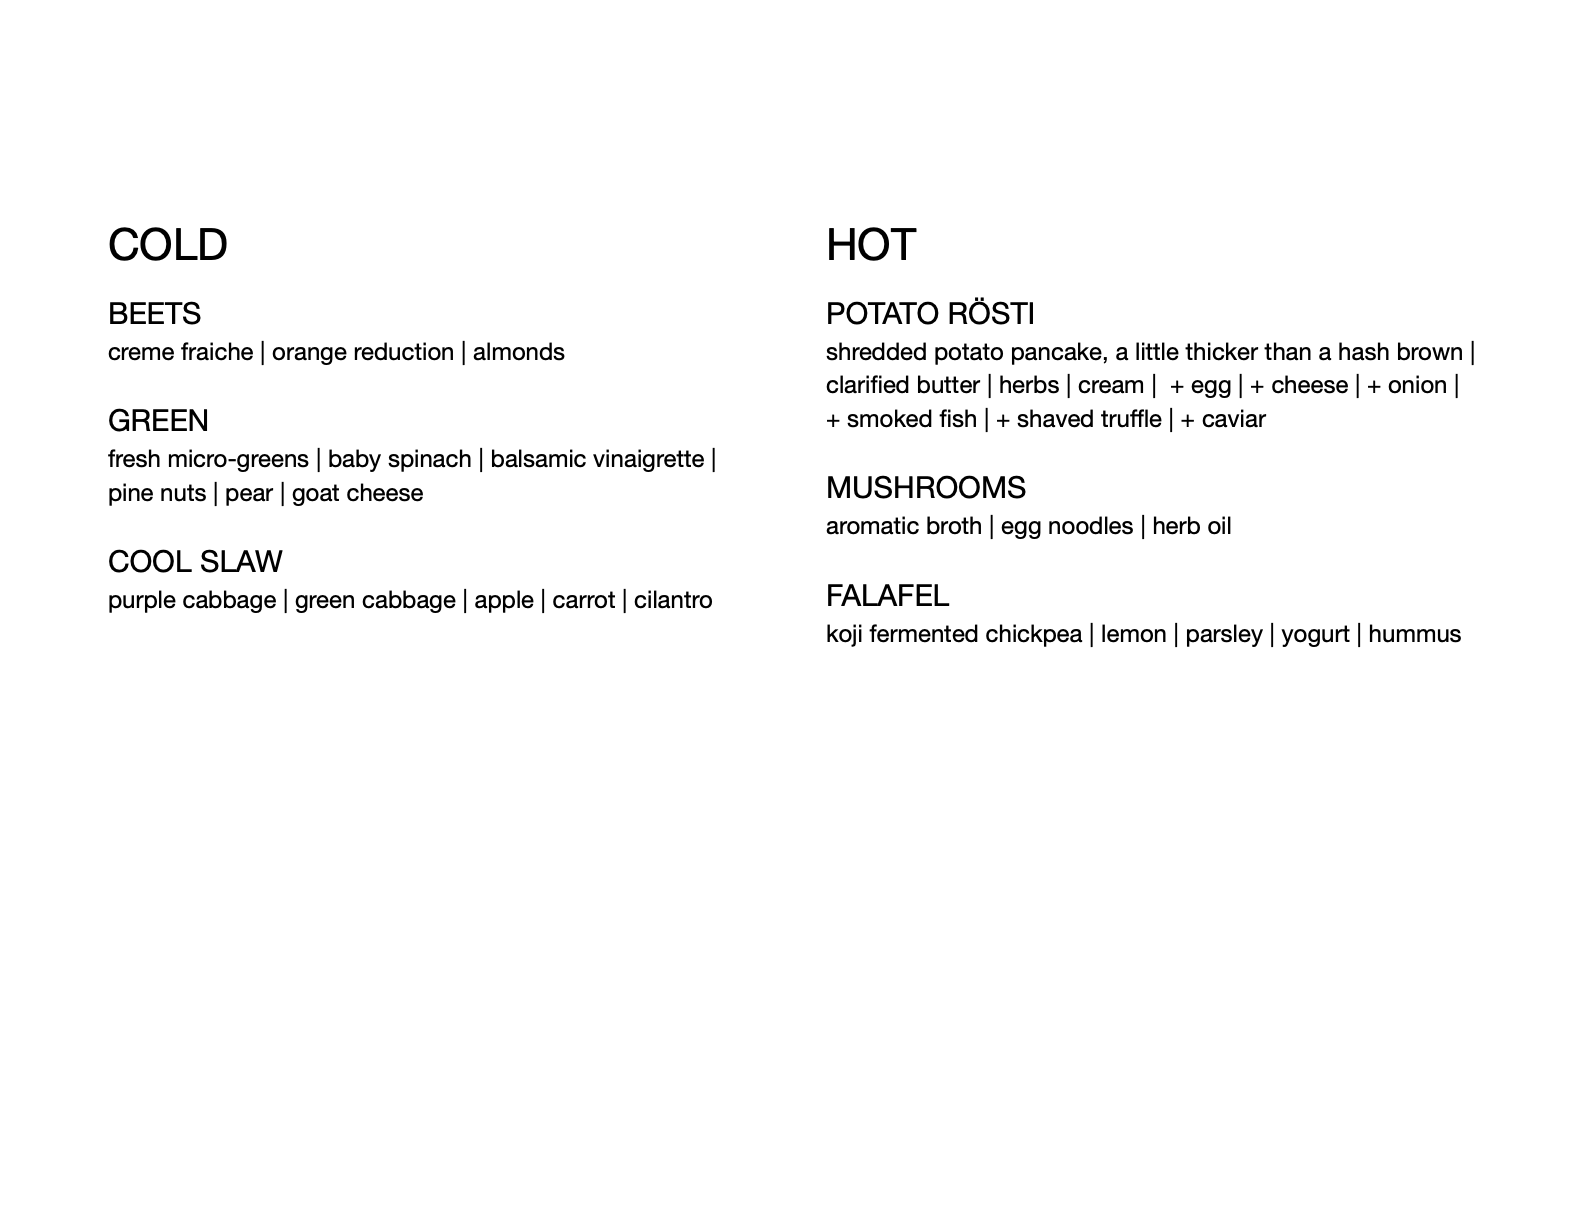
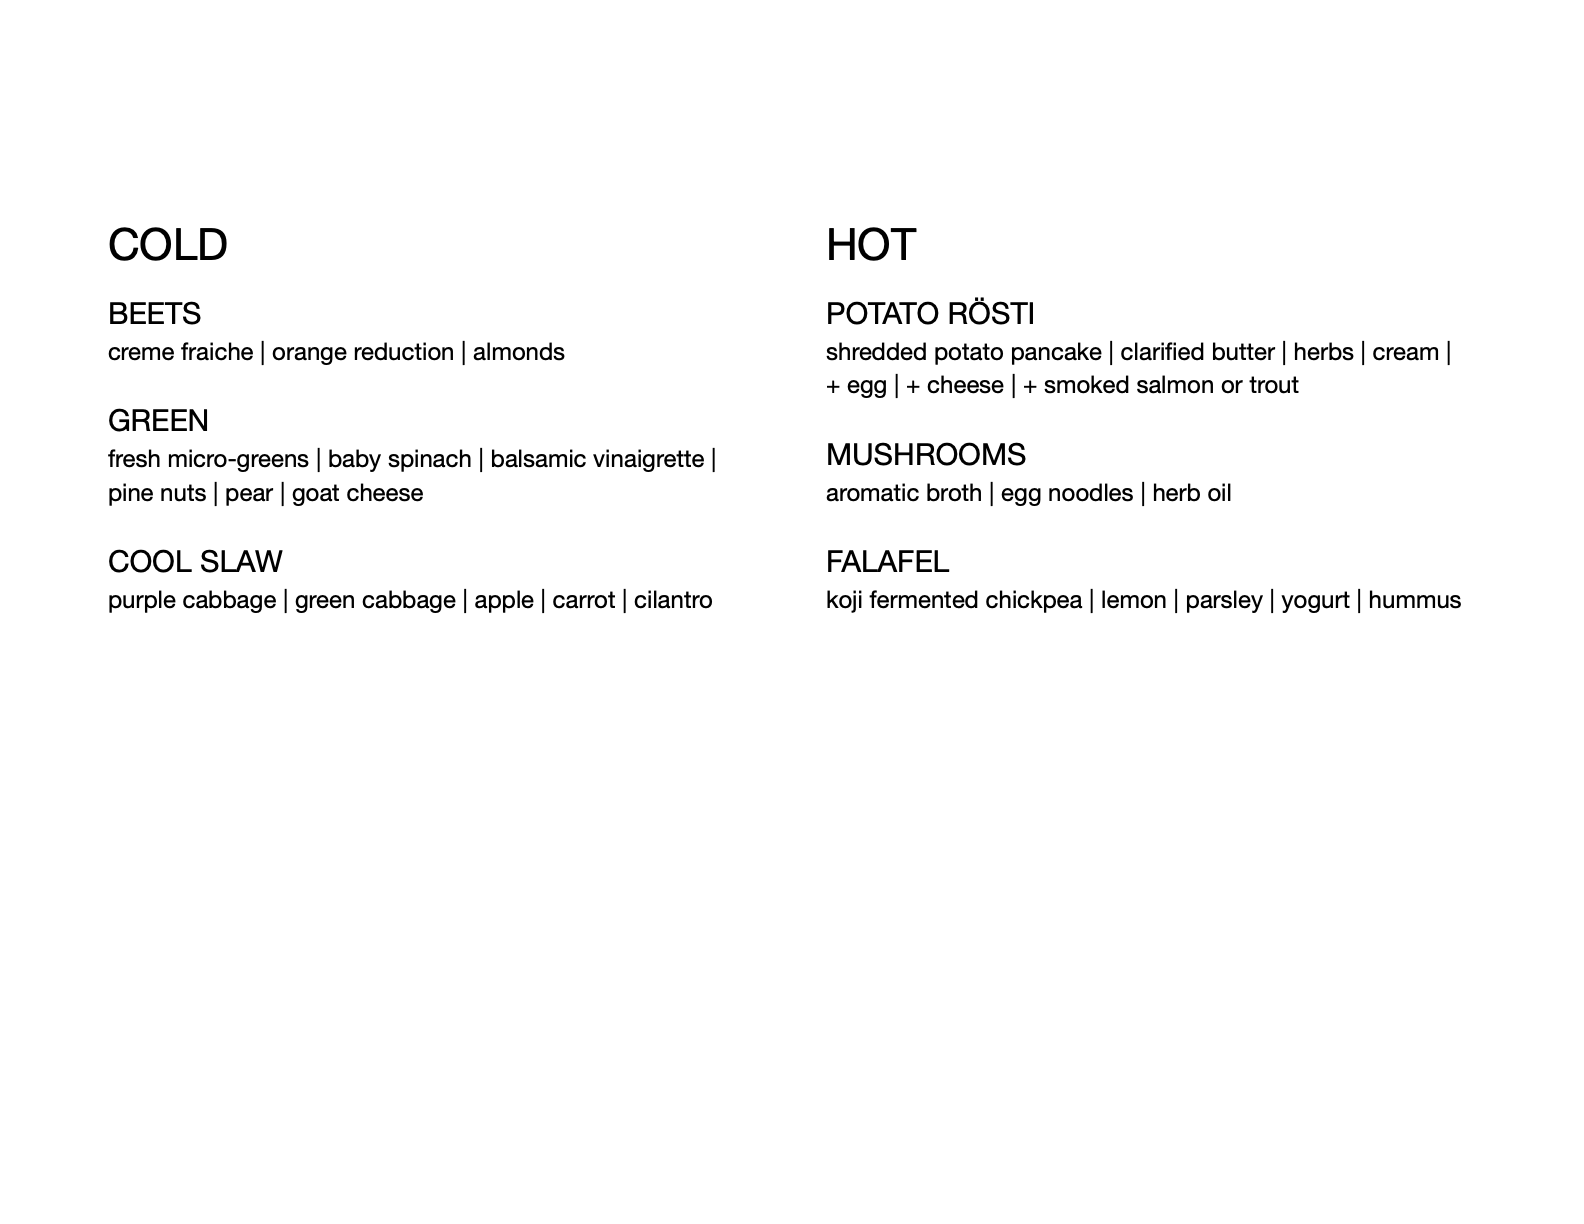
Update menu

Changed region(s): [[0.5259, 0.2794, 0.928, 0.5278]]

diff --git a/dist/catering/menu/index.html b/dist/catering/menu/index.html
@@ -2,6 +2,6 @@
 :root{--accent: #0066cc;--accent-dark: #000d8a;--black: 15, 18, 25;--gray: 96, 115, 159;--gray-light: 229, 233, 240;--gray-dark: 34, 41, 57;--gray-gradient: rgba(var(--gray-light), 50%), #fff;--box-shadow: 0 2px 6px rgba(var(--gray), 25%), 0 8px 24px rgba(var(--gray), 33%), 0 16px 32px rgba(var(--gray), 33%)}@font-face{font-family:Atkinson;src:url(/fonts/atkinson-regular.woff) format("woff");font-weight:400;font-style:normal;font-display:swap}@font-face{font-family:Atkinson;src:url(/fonts/atkinson-bold.woff) format("woff");font-weight:700;font-style:normal;font-display:swap}body{font-family:Spectral,serif,system-ui,-apple-system,Segoe UI;margin:0;padding:0;text-align:left;background:linear-gradient(var(--gray-gradient)) no-repeat;background-size:100% 600px;word-wrap:break-word;overflow-wrap:break-word;color:#363737;font-size:20px;line-height:1.7}main{width:720px;max-width:calc(100% - 2em);margin:auto;padding:3em 1em}h1,h2,h3,h4,h5,h6{font-family:SF Pro Display,-apple-system-headline,system-ui,-apple-system,Segoe UI,Roboto,Helvetica,Arial,sans-serif;margin:0 0 .5rem;color:#363737;line-height:1.2}h1{font-size:3.052em}h2{font-size:2.441em}h3{font-size:1.953em}h4{font-size:1.563em}h5{font-size:1.25em}strong,b{font-weight:700}a,a:hover{color:var(--accent)}p{margin-bottom:1em}.prose p{margin-bottom:2em}textarea{width:100%;font-size:16px}input{font-size:16px}table{width:100%}img{max-width:100%;height:auto;border-radius:8px}code{padding:2px 5px;background-color:rgb(var(--gray-light));border-radius:2px}pre{padding:1.5em;border-radius:8px}pre>code{all:unset}blockquote{border-left:4px solid var(--accent);padding:0 0 0 20px;margin:0;font-size:1.333em}hr{border:none;border-top:1px solid rgb(var(--gray-light))}@media (max-width: 720px){body{font-size:18px}main{padding:1em}}.sr-only{border:0;padding:0;margin:0;position:absolute!important;height:1px;width:1px;overflow:hidden;clip:rect(1px 1px 1px 1px);clip:rect(1px,1px,1px,1px);clip-path:inset(50%);white-space:nowrap}
 header[data-astro-cid-3ef6ksr2]{margin:0;padding:0 1em;background:#fff;box-shadow:0 2px 8px rgba(var(--black),5%);text-align:center}h2[data-astro-cid-3ef6ksr2]{margin:0;padding:1em 0;font-size:24px}h2[data-astro-cid-3ef6ksr2] a[data-astro-cid-3ef6ksr2],h2[data-astro-cid-3ef6ksr2] a[data-astro-cid-3ef6ksr2].active{text-decoration:none}nav[data-astro-cid-3ef6ksr2] a[data-astro-cid-3ef6ksr2]{padding:1em .5em;color:var(--black);border-bottom:4px solid transparent;text-decoration:none}nav[data-astro-cid-3ef6ksr2] a[data-astro-cid-3ef6ksr2].active{text-decoration:none;border-bottom-color:var(--accent)}.social-links[data-astro-cid-3ef6ksr2],.social-links[data-astro-cid-3ef6ksr2] a[data-astro-cid-3ef6ksr2]{display:flex}@media (max-width: 720px){.social-links[data-astro-cid-3ef6ksr2]{display:none}}
 footer[data-astro-cid-sz7xmlte]{padding:2em 1em;background:linear-gradient(var(--gray-gradient)) no-repeat;color:rgb(var(--gray));text-align:center;font-size:16px}.social-links[data-astro-cid-sz7xmlte]{display:flex;justify-content:center;gap:1em;margin-top:1em}.social-links[data-astro-cid-sz7xmlte] a[data-astro-cid-sz7xmlte]{text-decoration:none;color:rgb(var(--gray))}.social-links[data-astro-cid-sz7xmlte] a[data-astro-cid-sz7xmlte]:hover{color:rgb(var(--gray-dark))}
-</style></head> <body data-astro-cid-zmeiyv4c> <header data-astro-cid-3ef6ksr2> <nav data-astro-cid-3ef6ksr2> <h2 data-astro-cid-3ef6ksr2><a href="/" data-astro-cid-3ef6ksr2>Ryan Blakeley</a></h2> </nav> </header>  <main data-astro-cid-zmeiyv4c> <section data-astro-cid-zmeiyv4c> <img src="/_astro/catering-menu.1.C7gfB9Lv_1Y2zqG.webp" alt="Catering menu page 1 of 4" inferSize="true" data-astro-cid-zmeiyv4c="true" width="1584" height="1224" loading="lazy" decoding="async"> <img src="/_astro/catering-menu.2.D4jn6Y_v_1Ev11X.webp" alt="Catering menu page 2 of 4" inferSize="true" data-astro-cid-zmeiyv4c="true" width="1584" height="1224" loading="lazy" decoding="async"> <img src="/_astro/catering-menu.3.CnYrFuOm_25ykuY.webp" alt="Catering menu page 3 of 4" inferSize="true" data-astro-cid-zmeiyv4c="true" width="1584" height="1224" loading="lazy" decoding="async"> <img src="/_astro/catering-menu.4.DLPfvg6P_HGH1b.webp" alt="Catering menu page 4 of 4" inferSize="true" data-astro-cid-zmeiyv4c="true" width="1584" height="1224" loading="lazy" decoding="async"> <ul data-astro-cid-zmeiyv4c> <li data-astro-cid-zmeiyv4c><a href="/catering" data-astro-cid-zmeiyv4c>Return to catering page</a></li> </ul> </section> </main> <footer data-astro-cid-sz7xmlte>
+</style></head> <body data-astro-cid-zmeiyv4c> <header data-astro-cid-3ef6ksr2> <nav data-astro-cid-3ef6ksr2> <h2 data-astro-cid-3ef6ksr2><a href="/" data-astro-cid-3ef6ksr2>Ryan Blakeley</a></h2> </nav> </header>  <main data-astro-cid-zmeiyv4c> <section data-astro-cid-zmeiyv4c> <img src="/_astro/catering-menu.1.B5lZkNeb_28CXVl.webp" alt="Catering menu page 1 of 4" inferSize="true" data-astro-cid-zmeiyv4c="true" width="1584" height="1224" loading="lazy" decoding="async"> <img src="/_astro/catering-menu.2.BDpnWLbC_Z22P41X.webp" alt="Catering menu page 2 of 4" inferSize="true" data-astro-cid-zmeiyv4c="true" width="1584" height="1224" loading="lazy" decoding="async"> <img src="/_astro/catering-menu.3.KnZ5HRUA_2c2prc.webp" alt="Catering menu page 3 of 4" inferSize="true" data-astro-cid-zmeiyv4c="true" width="1584" height="1224" loading="lazy" decoding="async"> <img src="/_astro/catering-menu.4.Bb8ncIt5_Z1G69Oc.webp" alt="Catering menu page 4 of 4" inferSize="true" data-astro-cid-zmeiyv4c="true" width="1584" height="1224" loading="lazy" decoding="async"> <ul data-astro-cid-zmeiyv4c> <li data-astro-cid-zmeiyv4c><a href="/catering" data-astro-cid-zmeiyv4c>Return to catering page</a></li> </ul> </section> </main> <footer data-astro-cid-sz7xmlte>
 &copy; 2025 Ryan Blakeley
 </footer>  </body></html>

diff --git a/dist/newsletter/index.html b/dist/newsletter/index.html
@@ -1,1 +1,1 @@
-<!doctype html><title>Redirecting to: https://newsletter.ryanblakeley.net/</title><meta http-equiv="refresh" content="0;url=https://newsletter.ryanblakeley.net/"><meta name="robots" content="noindex"><link rel="canonical" href="https://newsletter.ryanblakeley.net/"><body>	<a href="https://newsletter.ryanblakeley.net/">Redirecting from <code>/newsletter/</code> to <code>https://newsletter.ryanblakeley.net/</code></a></body>
+<!doctype html><title>Redirecting to: https://blog.ryanblakeley.net/</title><meta http-equiv="refresh" content="0;url=https://blog.ryanblakeley.net/"><meta name="robots" content="noindex"><link rel="canonical" href="https://blog.ryanblakeley.net/"><body>	<a href="https://blog.ryanblakeley.net/">Redirecting from <code>/newsletter/</code> to <code>https://blog.ryanblakeley.net/</code></a></body>

diff --git a/dist/blog/index.html b/dist/blog/index.html
@@ -1,1 +1,1 @@
-<!doctype html><title>Redirecting to: https://newsletter.ryanblakeley.net/</title><meta http-equiv="refresh" content="0;url=https://newsletter.ryanblakeley.net/"><meta name="robots" content="noindex"><link rel="canonical" href="https://newsletter.ryanblakeley.net/"><body>	<a href="https://newsletter.ryanblakeley.net/">Redirecting from <code>/blog/</code> to <code>https://newsletter.ryanblakeley.net/</code></a></body>
+<!doctype html><title>Redirecting to: https://blog.ryanblakeley.net/</title><meta http-equiv="refresh" content="0;url=https://blog.ryanblakeley.net/"><meta name="robots" content="noindex"><link rel="canonical" href="https://blog.ryanblakeley.net/"><body>	<a href="https://blog.ryanblakeley.net/">Redirecting from <code>/blog/</code> to <code>https://blog.ryanblakeley.net/</code></a></body>
